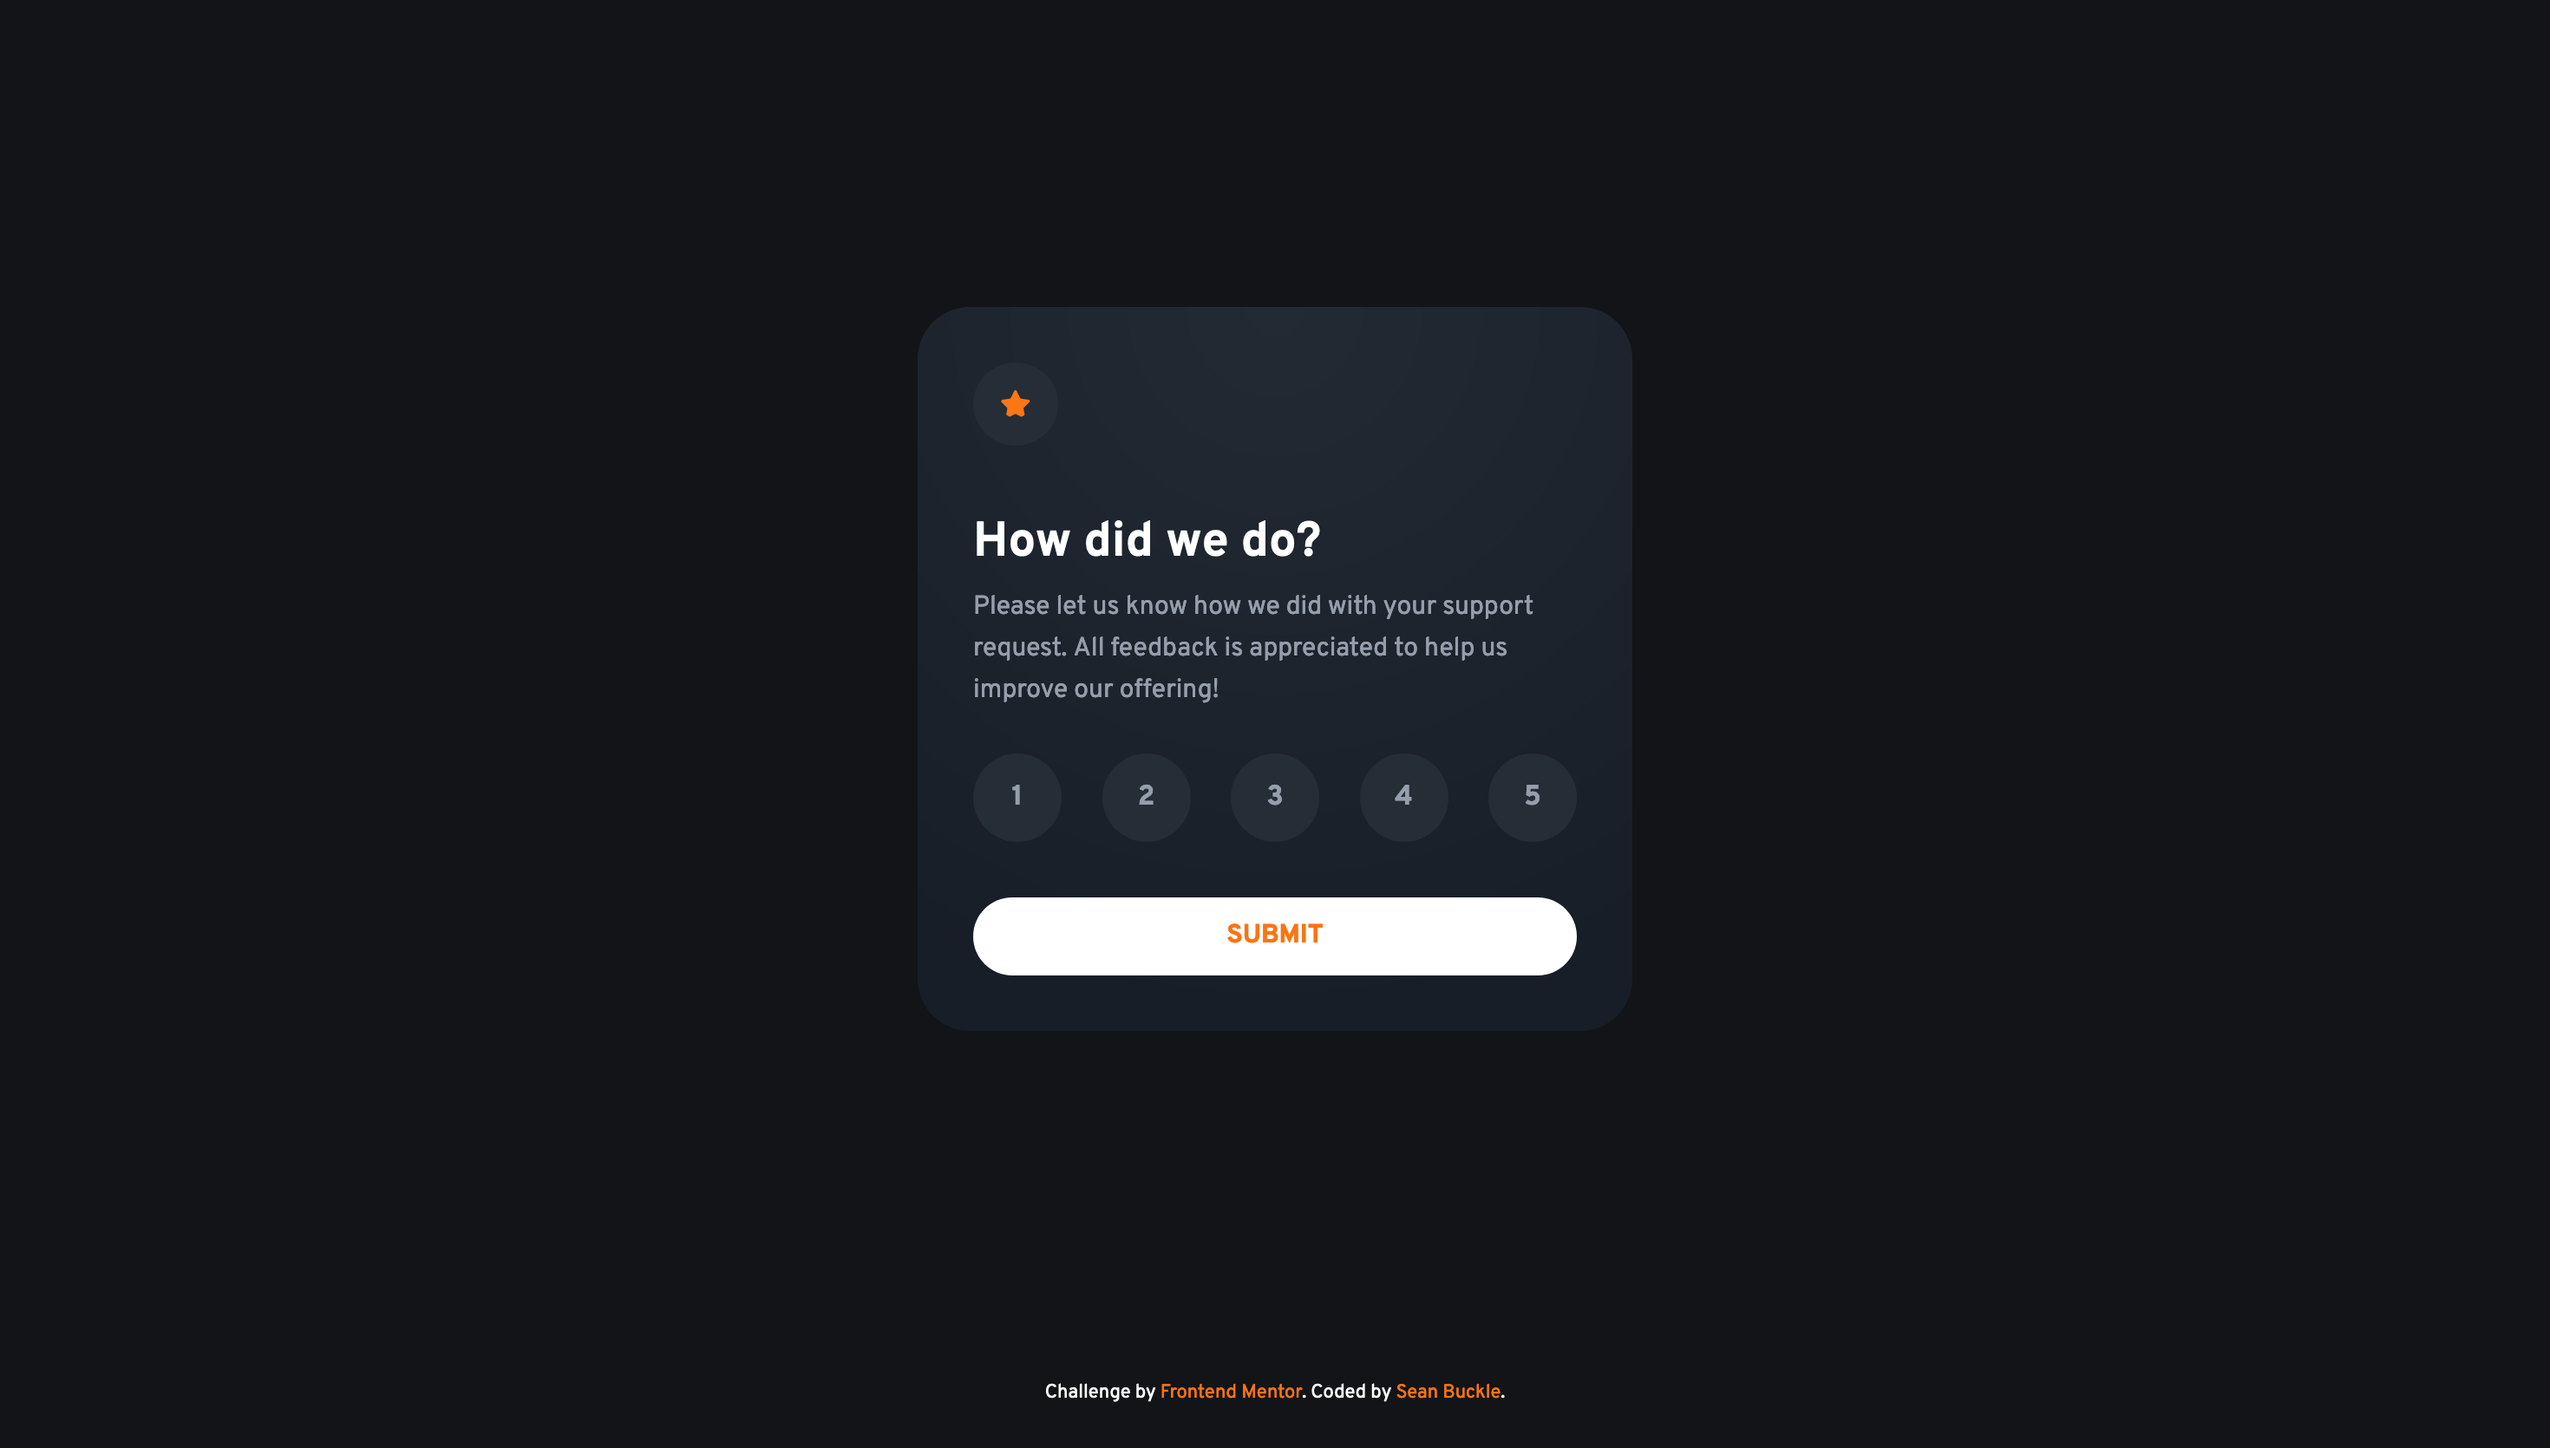
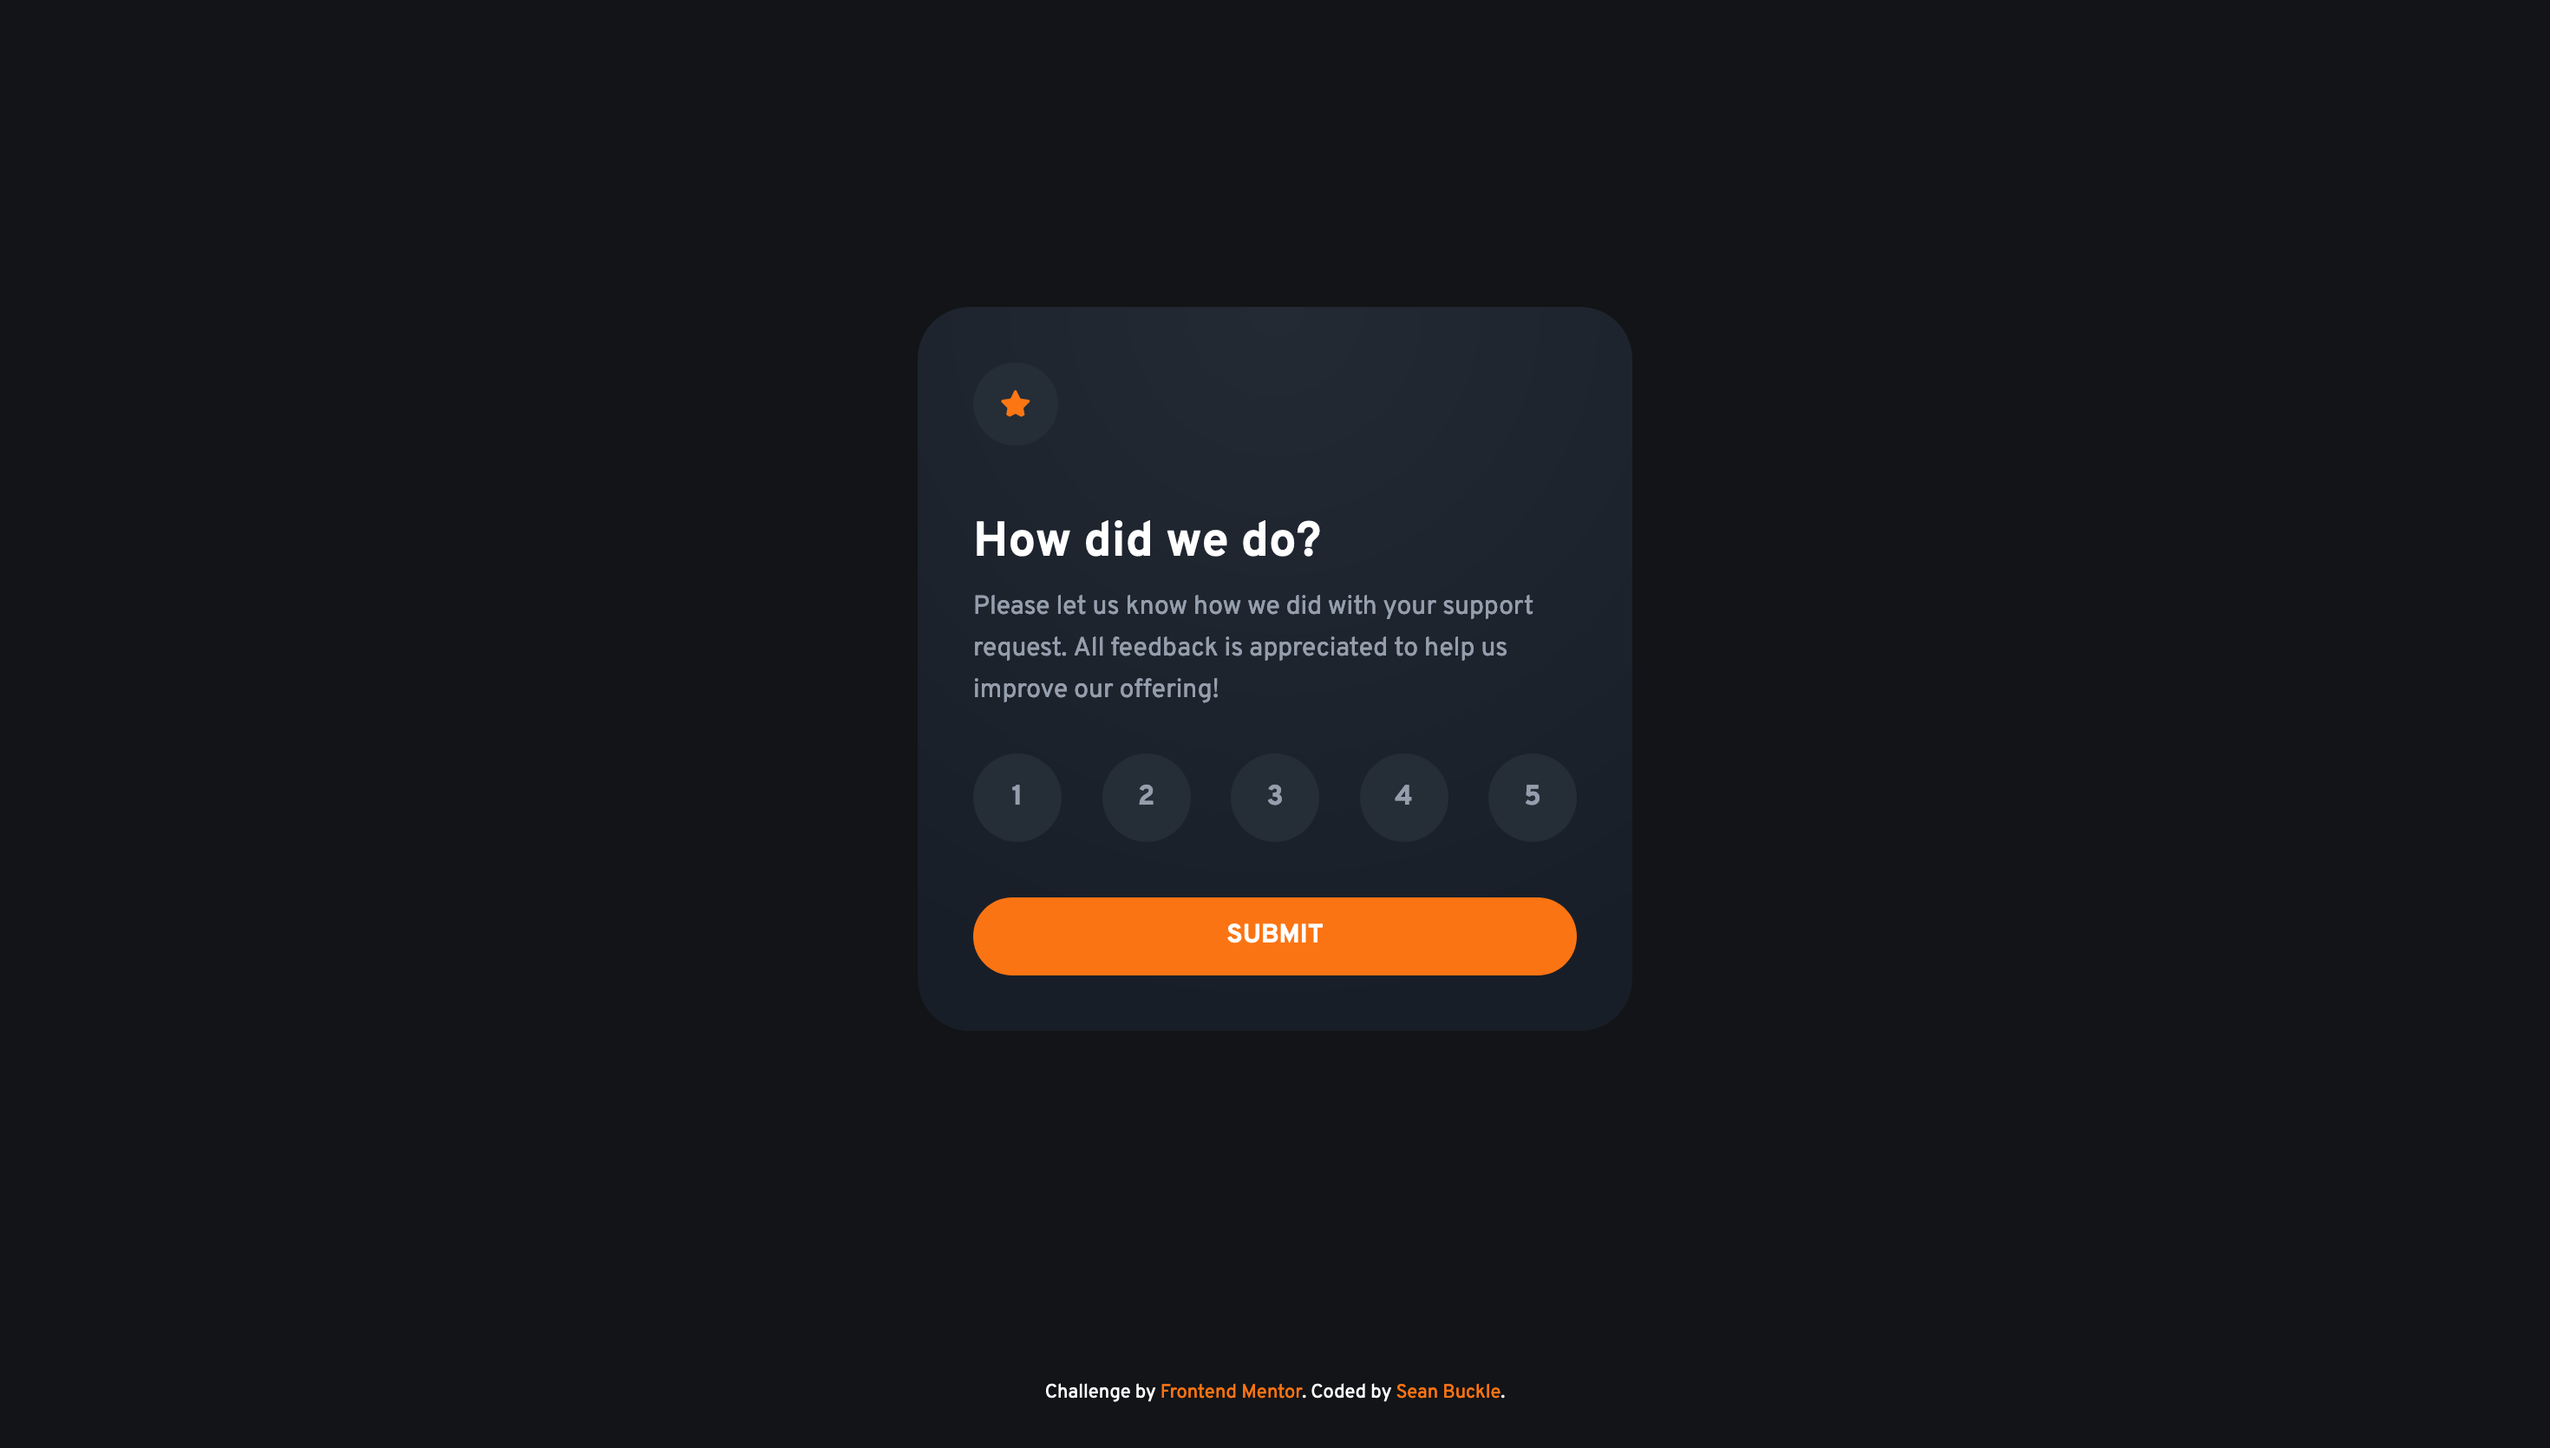
update screenshot.png, style.css and style.scss

Changed region(s): [[0.3714, 0.6228, 0.619, 0.685]]

diff --git a/style/style.scss b/style/style.scss
@@ -28,7 +28,7 @@
     --body: 400 0.9375rem/1.5rem var(--font-family);
 }
 
-body{
+body {
     min-height: 100dvh;
     display: grid;
     grid-template-rows: 1fr auto;
@@ -36,44 +36,55 @@ body{
     color: var(--white);
     font-family: var(--font-family);
 }
-main{
+
+main {
     padding: 0 1.5rem;
     display: grid;
     place-items: center;
 }
-.card{
+
+.card {
     width: min(100%, 412px);
     padding: 2rem;
     border-radius: 30px;
     background: var(--black-gradient);
-    &__star{
+
+    &__star {
         background-color: var(--dark-blue);
         padding: 1rem;
         border-radius: 50%;
         margin-bottom: 2rem;
     }
-    & h1,h2{
+
+    & h1,
+    h2 {
         font: var(--heading-md);
         padding-bottom: 7px;
     }
-    & p{
+
+    & p {
         padding-bottom: 1.5rem;
         font: var(--body);
         color: var(--Light-grey);
     }
-    &__ratings{
+
+    &__ratings {
         width: 100%;
         padding-bottom: 2rem;
         display: flex;
         justify-content: space-between;
-        & input[type="radio"]{
+
+        & input[type="radio"] {
             display: none;
         }
-        & label{
+
+        & label {
             width: 42px;
+
             @media screen and (min-width: 400px) {
                 width: 51px;
             }
+
             aspect-ratio: 1/1;
             display: grid;
             place-items: center;
@@ -83,43 +94,51 @@ main{
             color: var(--Light-grey);
             cursor: pointer;
         }
-        & label:hover{
+
+        & label:hover {
             background-color: var(--orange);
             color: var(--white);
         }
-        & input[type="radio"]:checked + label{
+
+        & input[type="radio"]:checked+label {
             background-color: var(--Light-grey);
             color: var(--white);
-            &:hover{
+
+            &:hover {
                 background-color: var(--orange);
                 color: var(--white);
             }
         }
     }
-    &__btn{
+
+    &__btn {
         width: 100%;
         height: 45px;
         border-radius: 22.5px;
-        background-color: var(--white);
-        color: var(--orange);
+        background-color: var(--orange);
+        color: var(--white);
         font: var(--heading-sm);
         text-transform: uppercase;
         cursor: pointer;
-        &:hover{
-            background-color: var(--orange);
-            color: var(--white);
+
+        &:hover {
+            background-color: var(--white);
+            color: var(--orange);
         }
     }
-    &__message{
+
+    &__message {
         display: flex;
         flex-direction: column;
         align-items: center;
     }
-    &__thank-img{
+
+    &__thank-img {
         width: 162px;
         height: auto;
     }
-    &__rating{
+
+    &__rating {
         padding: 4px 20px;
         border-radius: 20px;
         margin: 2rem 0;
@@ -127,19 +146,23 @@ main{
         background-color: var(--dark-blue);
         color: var(--orange);
     }
-    &__message-txt{
+
+    &__message-txt {
         padding-bottom: 13px;
         text-align: center;
     }
 }
+
 .attribution {
     height: 64px;
     display: grid;
     place-items: center;
     font-size: 11px;
+
     a {
         color: var(--orange);
         text-decoration: none;
+
         &:hover {
             text-decoration: underline;
         }

diff --git a/style/style.css b/style/style.css
@@ -53,7 +53,8 @@ main {
   border-radius: 50%;
   margin-bottom: 2rem;
 }
-.card h1, .card h2 {
+.card h1,
+.card h2 {
   font: var(--heading-md);
   padding-bottom: 7px;
 }
@@ -103,15 +104,15 @@ main {
   width: 100%;
   height: 45px;
   border-radius: 22.5px;
-  background-color: var(--white);
-  color: var(--orange);
+  background-color: var(--orange);
+  color: var(--white);
   font: var(--heading-sm);
   text-transform: uppercase;
   cursor: pointer;
 }
 .card__btn:hover {
-  background-color: var(--orange);
-  color: var(--white);
+  background-color: var(--white);
+  color: var(--orange);
 }
 .card__message {
   display: flex;
